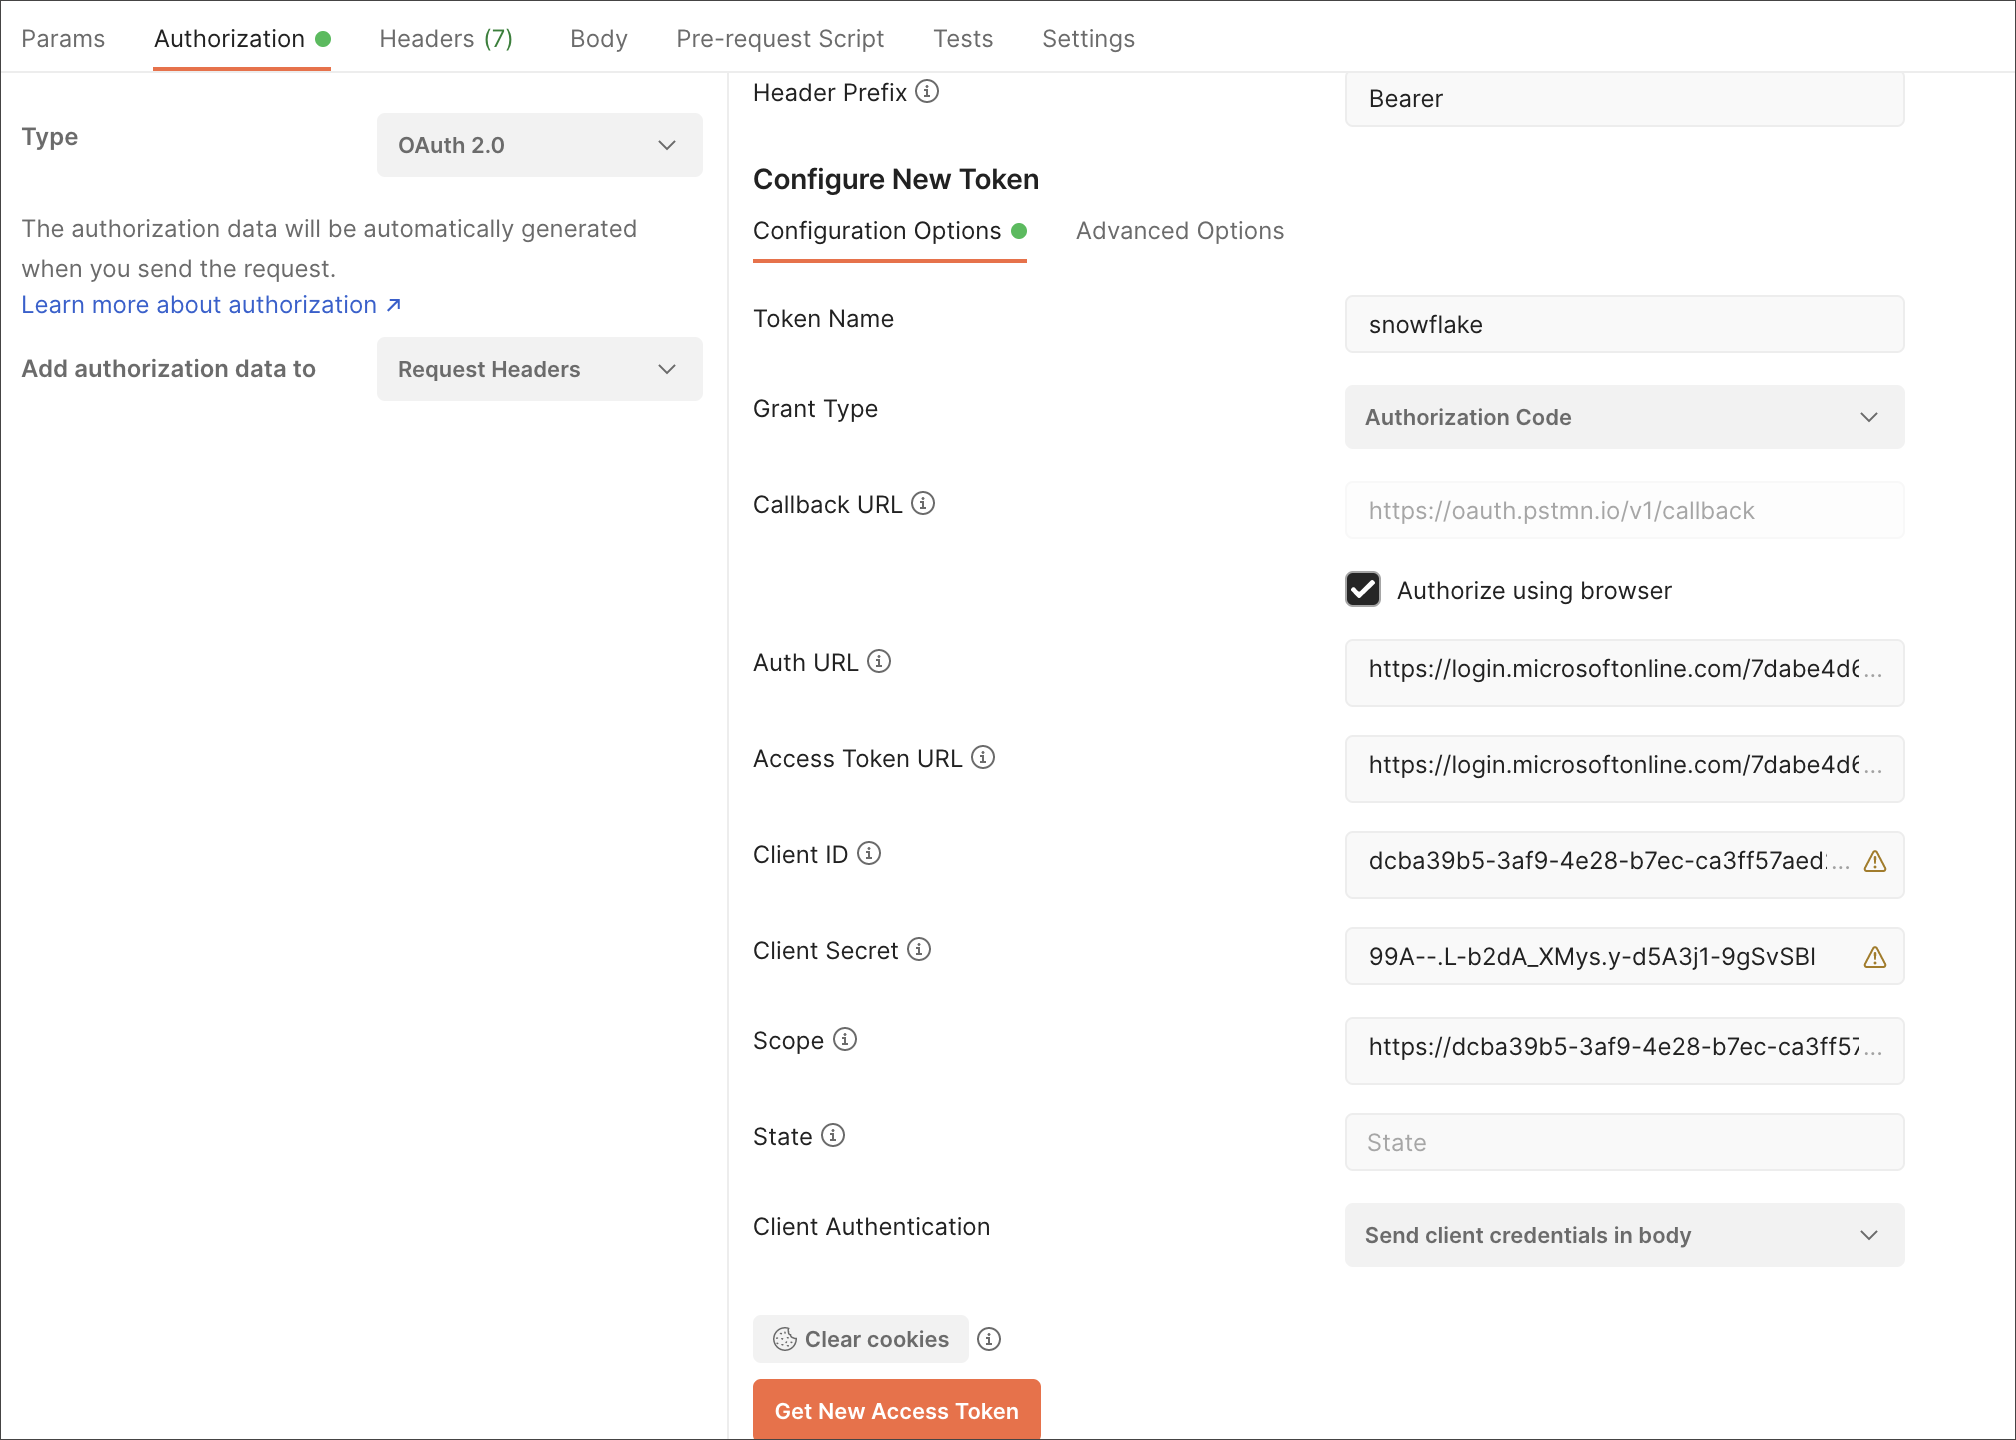
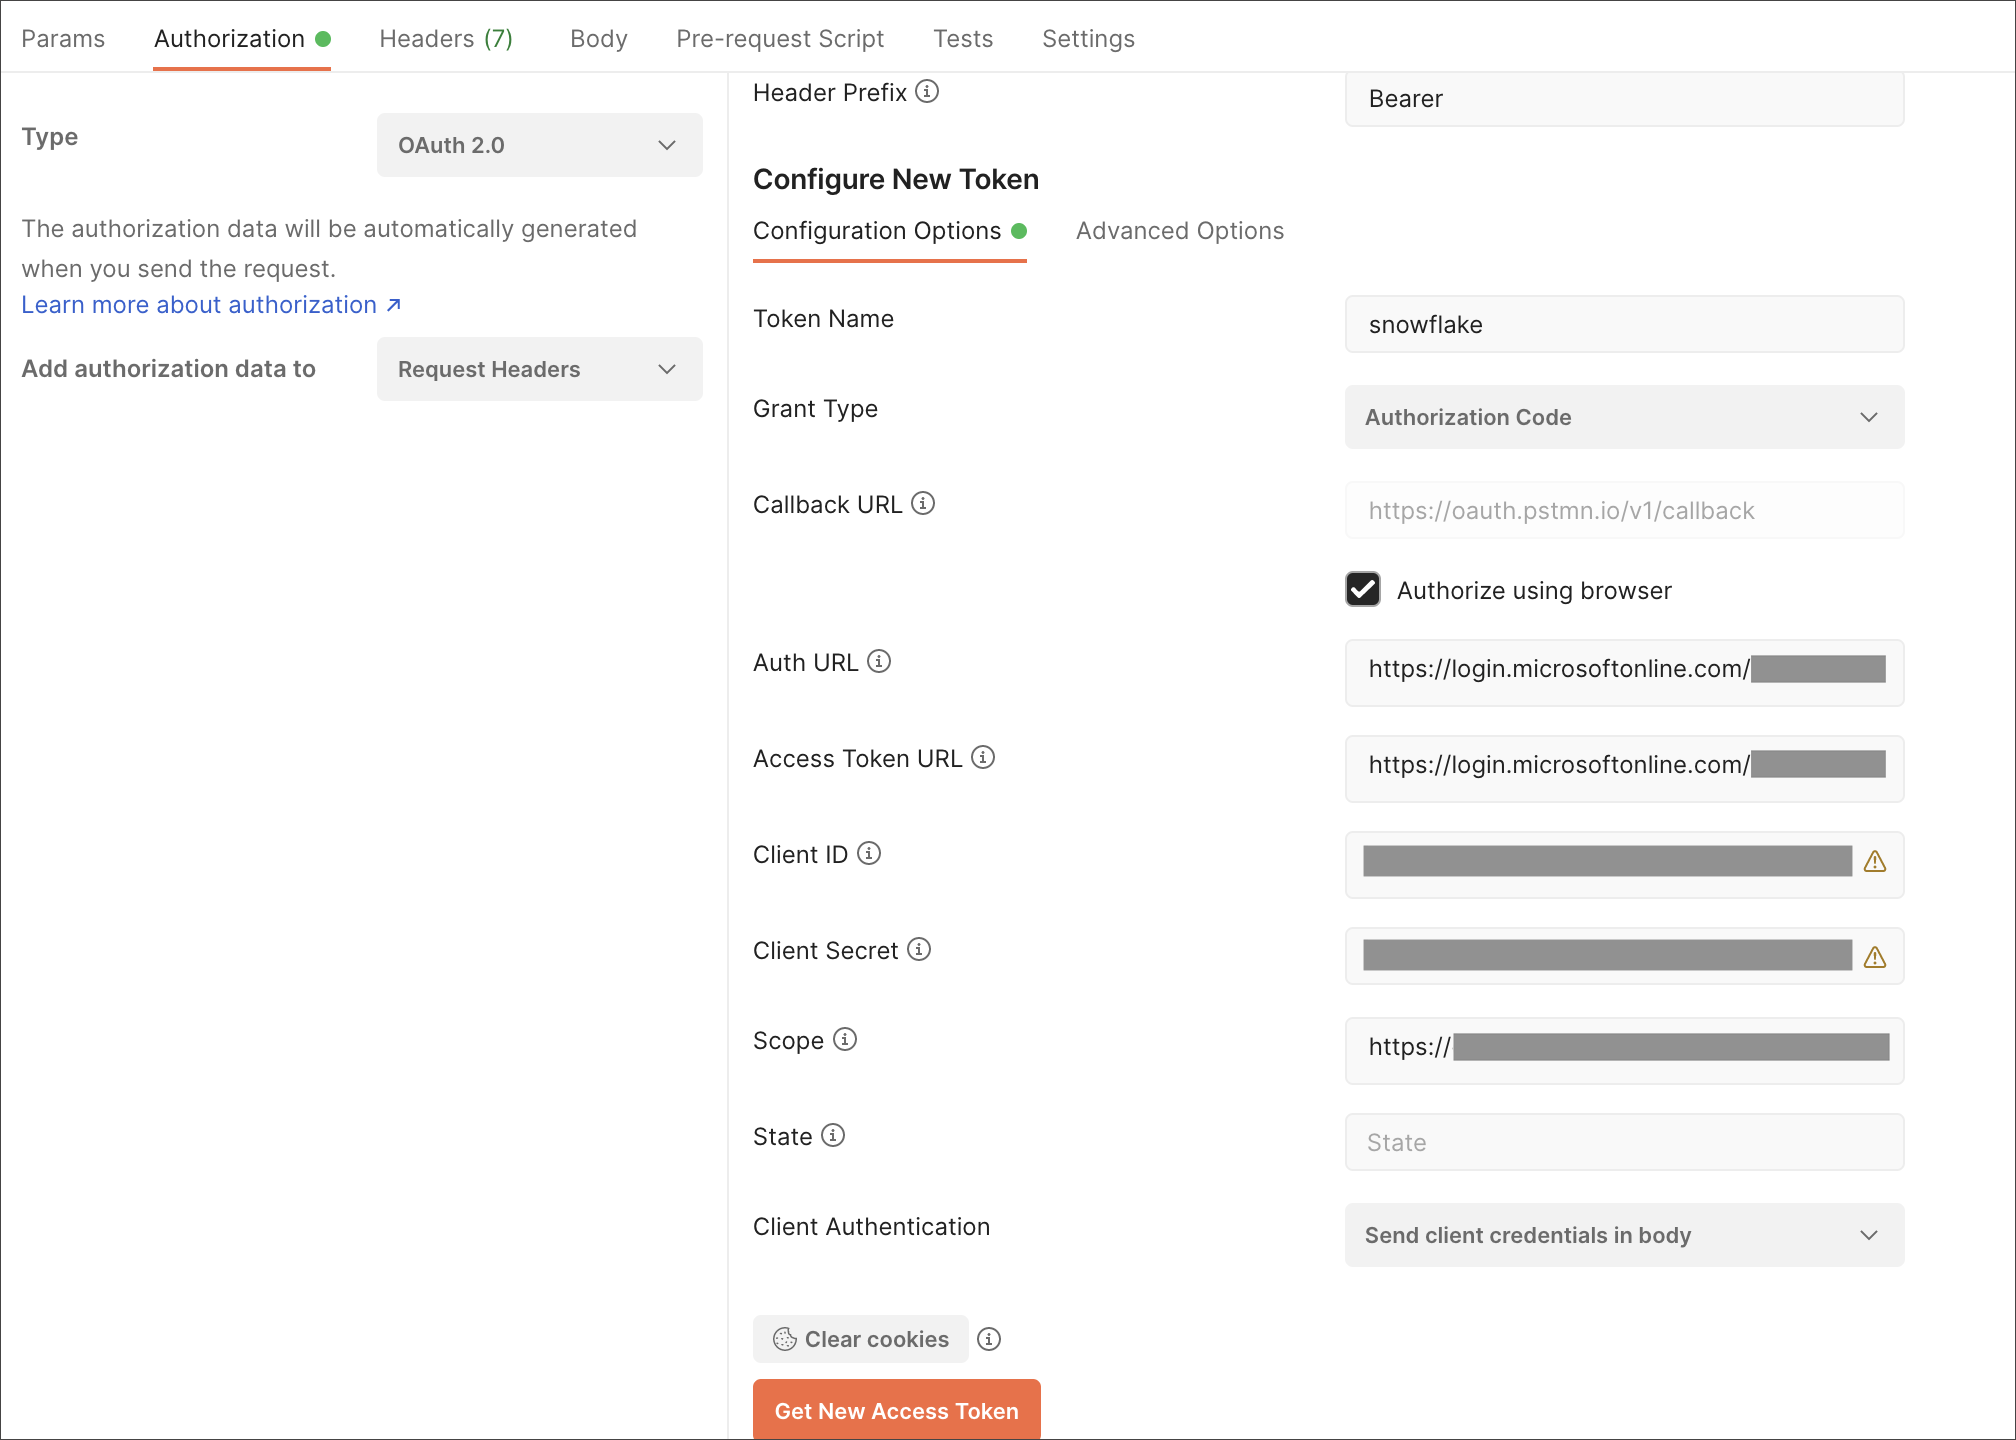
several updates to azure ad oauth article

Changed region(s): [[0.6562, 0.4375, 0.9375, 0.6875], [0.7188, 0.7188, 0.9375, 0.75]]

diff --git a/_admin/ts-cloud/ts-cloud-embrace-snowflake-azure-ad-oauth.md b/_admin/ts-cloud/ts-cloud-embrace-snowflake-azure-ad-oauth.md
@@ -40,7 +40,7 @@ To create a Snowflake OAuth resource, do the following:
 8. Next to Application ID URI, click **Set** and change its value from **api://\<alphanumeric value>** to **https://\<alphanumeric value>** and click **Save**.
 
    <!-- ![]({{ site.baseurl }}/images/snow-app-uri.png) -->
-   ![]({{ site.baseurl }}/images/snow-app-uri-oauth-client.png)
+   ![]({{ site.baseurl }}/images/snow-app-uri-oauth-client2.png)
 
     {% include note.html content="If the Application ID URI is not used, you must create a security integration with audiences using the Snowflake Account URL (i.e. `<account_identifier>.snowflakecomputing.com)`." %}
 
@@ -68,7 +68,7 @@ To create a Snowflake OAuth client app, do the following:
 
 2. Click **App registrations**, and then click **New registration**.
 
-3. For Name, enter a name for the client (example: `Snowflake OAuth Client`).
+3. For Name, enter a name for the client (example: `Snowflake OAuth User`).
 
 4. For Supported account types, make sure it is set to **Single tenant**.
 
@@ -78,30 +78,19 @@ To create a Snowflake OAuth client app, do the following:
 
 7. From the Application (client) ID field, copy the ID. This ID is referred to as the `<OAUTH_CLIENT_ID>` in the steps that follow.
 
-   ![]({{ site.baseurl }}/images/sf_oauth_client.png)
-
-8. Click **Authentication**.
-
-9. Under Web, enter your Redirect URI.
-
-   The URI must be in the following format:
-   `<https://<public> url of your ThoughtSpot Instance>/callosum/v1/connection/generateTokens`
-
-   ![]({{ site.baseurl }}/images/redirect_uri.png)
-
-9. Click **Register**.   
+   ![]({{ site.baseurl }}/images/sf_oauth_user.png)   
 
 8. Click **Certificates & secrets** and then **New client secret**.
 
-   ![]({{ site.baseurl }}/images/snow_certs_secr.png)
+   ![]({{ site.baseurl }}/images/snow_certs_secr2.png)
 
 9. Copy the secret you just created. This is referred to as `<OAUTH_CLIENT_SECRET>` in the steps that follow.
 
-   ![]({{ site.baseurl }}/images/snow_secr.png)
+   ![]({{ site.baseurl }}/images/snow_secr2.png)
 
 10. Click **API permissions**, then click **Add a permission**.
 
-    ![]({{ site.baseurl }}/images/snow_api_perm.png)
+    ![]({{ site.baseurl }}/images/snow_api_perm2.png)
 
 11. Click **My APIs**.
 
@@ -119,8 +108,6 @@ To create a Snowflake OAuth client app, do the following:
 
     ![]({{ site.baseurl }}/images/snow_grant_admin.png)
 
-16. Under Configured permissions, make sure **Grant admin consent for Default Directory** is checked.
-
 ### Part 3: Collecting Azure AD information for Snowflake
 
 To collect Azure AD information for Snowflake, do the following:
@@ -133,24 +120,24 @@ To collect Azure AD information for Snowflake, do the following:
 
     b. On the right-hand side, copy the **OAuth 2.0 token endpoint (v2)** and note the URLs for **OpenID Connect metadata** and **Federation Connect metadata**.
 
-	 1. The **OAuth 2.0 token endpoint (v2)** is referred to as the `<AZURE_AD_OAUTH_TOKEN_ENDPOINT>` in the following configuration steps. The endpoint should be similar to https<nolink>://login.microsoftonline.com/7dabe4d6-364c-436b-a77e-f252d7a0fb31/oauth2/v2.0/token/ (Where **7dabe4d6-364c-436b-a77e-f252d7a0fb31** is the tenant ID).
+	 1. The **OAuth 2.0 token endpoint (v2)** is referred to as the `<AZURE_AD_OAUTH_TOKEN_ENDPOINT>` in the following configuration steps. The endpoint should be similar to `https://login.microsoftonline.com/<tenant_id>/oauth2/v2.0/token/`.
 
    2. For the **OpenID Connect metadata**, open in a new browser window.
 
 	     a. Locate the "jwks_uri" parameter and copy its value.
 
-	     b. This parameter value will be known as the `<AZURE_AD_JWS_KEY_ENDPOINT>` in the following configuration steps. The endpoint should be similar to https<nolink>://login.microsoftonline.com/7dabe4d6-364c-436b-a77e-f252d7a0fb31/discovery/v2.0/keys.
+	     b. This parameter value will be known as the `<AZURE_AD_JWS_KEY_ENDPOINT>` in the following configuration steps. The endpoint should be similar to `https://login.microsoftonline.com/<tenant_id>/discovery/v2.0/keys`.
 
-  3. For the **Federation metadata document**, open the URL in a new browser window.
+3. For the **Federation metadata document**, open the URL in a new browser window.
 
-	     a. Locate the `"entityID"` parameter in the `XML Root Element` and copy its value.
+	  a. Locate the `"entityID"` parameter in the `XML Root Element` and copy its value.
 
-	     b. This parameter value will be known as the `<AZURE_AD_ISSUER>` in the following configuration steps. The entityID value should be similar to https<nolink>://sts.windows.net/7dabe4d6-364c-436b-a77e-f252d7a0fb31/.
+	  b. This parameter value will be known as the `<AZURE_AD_ISSUER>` in the following configuration steps. The entityID value should be similar to `https://sts.windows.net/<tenant_id>/`.
 
-  4. The **OAuth 2.0 authorization endpoint (v2)** should be similar to  https<nolink>://login.microsoftonline.com/7dabe4d6-364c-436b-a77e-f252d7a0fb31/oauth2/v2.0/authorize.
+4. The **OAuth 2.0 authorization endpoint (v2)** should be similar to  `https://login.microsoftonline.com/<tenant_id>/oauth2/v2.0/authorize`.
 
-     ![]({{ site.baseurl }}/images/snow_oauth_user_res_1.png)
-     ![]({{ site.baseurl }}/images/snow_oauth_user_res_2.png)
+    ![]({{ site.baseurl }}/images/snow_oauth_user_res_1.png)
+    ![]({{ site.baseurl }}/images/snow_oauth_user_res_2.png)
 
 ### Part 4: Creating an OAuth authorization server in Snowflake
 
@@ -176,7 +163,7 @@ Example:
 
 ![]({{ site.baseurl }}/images/snow-sec-int-example.png)
 
-{% include note.html content="When you create the Snowflake OAuth Resource Application in Azure AD, if you enter an `Application ID URI` that is not the Snowflake Account URL (i.e. <account_identifier>.snowflakecomputing.com), you must add the external_oauth_audience_list parameter to the command with the value `<SNOWFLAKE_APPLICATION_ID_URI>`.." %}
+{% include note.html content="When you create the Snowflake OAuth Resource Application in Azure AD, if you enter an `Application ID URI` that is not the Snowflake Account URL (i.e. `<account_identifier>.snowflakecomputing.com`), you must add the `external_oauth_audience_list` parameter to the command with the value `<SNOWFLAKE_APPLICATION_ID_URI>`." %}
 
 #### Snowflake commands
 
@@ -196,7 +183,7 @@ Example:
 
 `ALTER USER testuser SET DEFAULT_ROLE = SYSADMIN;`
 
-#### Validating your Azure configuration (optional)
+### (Optional) Validating your Azure configuration
 
 To ensure your Azure configuration is correct for use with ThoughtSpot, you can generate an access token.
 
@@ -204,13 +191,11 @@ You can use either of the following methods to generate your access token:
 - Postman
 - cURL
 
-##### Method 1: Postman
+#### Method 1: Postman
 
-###### Part 1: Getting a new access token
+To validate your configuration using Postman, do the following:
 
-To get a new access token, do the following:
-
-1. Sign in to the [Microsoft Azure Portal](https://portal.azure.com/){:target="_blank"}, and navigate to **Azure Active Directory**, if needed.
+1. Sign in to Postman.
 
 2. Go to the **Authorization** tab.
 
@@ -220,40 +205,38 @@ To get a new access token, do the following:
 
 5. For Callback URL, select **Authorize using browser**.
 
-   This should be defined in your OAuth User app(Ex: Snowflake OAuthUser). The default is “https<nolink>://oauth.pstmn.io/v1/callback”.
+   This should be defined in your OAuth User app(Ex: Snowflake OAuthUser). The default is `https://oauth.pstmn.io/v1/callback`.
 
 6. For Auth URL, enter the OAuth 2.0 authorization endpoint (v2) value from “Endpoints” in the app.   
 
-    Example: https<nolink>://login.microsoftonline.com/7dabe4d6-364c-436b-a77e-f252d7a0fb31/oauth2/v2.0/authorize
+    Example: `https://login.microsoftonline.com/<tenant_id>/oauth2/v2.0/authorize`
 
 7. For Access Token URL, enter the access token URL.
 
-    Example: https<nolink>://login.microsoftonline.com/7dabe4d6-364c-436b-a77e-f252d7a0fb31/oauth2/v2.0/token/
+    Example: `https://login.microsoftonline.com/<tenant_id>/oauth2/v2.0/token/`
 
 8. For Scope, you must provide “offline_access” as the scope, along with the actual scope. The refresh token is only provided if the offline_access scope was requested.
 
     ![]({{ site.baseurl }}/images/postman_get_token.png)  
 
-    Example: https<nolink>://dcba39b5-3af9-4e28-b7ec-ca3ff57aed23/session:role-any offline_access
+    Example: `https://<application_id>/session:role-any offline_access`
 
     {% include important.html content="When you create the scope in the Azure AD application setup, it must be set as “any” so that a user can later switch to any of his allowed roles when making a JDBC connection using the obtained token." %}    
 
 9. Click **Get New Access Token**.
 
-###### Part 2: Authenticating Azure AD user
+10. Sign in to your Microsoft Azure account.
 
-- Sign in to your Microsoft Azure account.
+    ![]({{ site.baseurl }}/images/ms_sign_in.png)
 
-  ![]({{ site.baseurl }}/images/ms_sign_in.png)
+11. On the Token Details page, click **Use Token**.
 
-###### Part 3: Collecting and refreshing access tokens
+    ![]({{ site.baseurl }}/images/token_det_1.png)
+    ![]({{ site.baseurl }}/images/token_det_2.png)
 
-- On the Token Details page, click **Use Token**.
+#### Method 2: cURL
 
-  ![]({{ site.baseurl }}/images/token_det_1.png)
-  ![]({{ site.baseurl }}/images/token_det_2.png)
-
-##### Method 2: cURL
+To validate your configuration using cURL, do the following:
 
 1. Execute below command to get access token with password grant_type:
 
@@ -270,13 +253,14 @@ To get a new access token, do the following:
   Example:
     ```
     curl -X POST -H "Content-Type: application/x-www-form-urlencoded;charset=UTF-8" \
-    --data-urlencode "client_id=90874b90-2537-465d-98dd-fcf572399e36" \
-    --data-urlencode "client_secret=99A--.L-b2dA_XMys.y-d5A3j1-9gSvSBl" \
-    --data-urlencode "username=testuser@diyottacloudoutlook.onmicrosoft.com" \
-    --data-urlencode "password=P2wd_1234" \
+    --data-urlencode "client_id=<client_id>" \
+    --data-urlencode "client_secret=<client_secret>" \
+    --data-urlencode "username=testuser@thoughtspot.com" \
+    --data-urlencode "password=*****" \
     --data-urlencode "grant_type=password" \
-    --data-urlencode "scope=https://dcba39b5-3af9-4e28-b7ec-ca3ff57aed23/session:role-any offline_access" \
-    'https://login.microsoftonline.com/7dabe4d6-364c-436b-a77e-f252d7a0fb31/oauth2/v2.0/token
+    --data-urlencode "scope=https://<application_id>/session:role-any offline_access"\
+    `https://login.microsoftonline.com/ <tenant_id>/oauth2/v2.0/token'
+
     ```
     ![]({{ site.baseurl }}/images/curl_1.png)
 
@@ -284,12 +268,12 @@ To get a new access token, do the following:
 
     ```
     curl -X POST -H "Content-Type: application/x-www-form-urlencoded;charset=UTF-8" \
-      --data-urlencode "client_id=90874b90-2537-465d-98dd-fcf572399e36" \
-      --data-urlencode "client_secret=99A--.L-b2dA_XMys.y-d5A3j1-9gSvSBl" \
+      --data-urlencode "client_id=<client_id>" \
+      --data-urlencode "client_secret=<client_secret>" \
         --data-urlencode "grant_type=refresh_token" \
         --data-urlencode "refresh_token=<Replace_Refresh_Token>" \
-        --data-urlencode "scope=https://dcba39b5-3af9-4e28-b7ec-ca3ff57aed23/session:role-any offline_access" \
-         'https://login.microsoftonline.com/7dabe4d6-364c-436b-a77e-f252d7a0fb31/oauth2/v2.0/token'
+        --data-urlencode "scope=https://<application_id>/session:role-any offline_access" \
+      'https://login.microsoftonline.com/<tenant_id>/oauth2/v2.0/token'
     ```
     ![]({{ site.baseurl }}/images/curl_2.png)
 
@@ -298,5 +282,5 @@ To get a new access token, do the following:
 - [Configure Microsoft Azure AD for External OAuth](https://docs.snowflake.com/en/user-guide/oauth-azure.html#configure-microsoft-azure-ad-for-external-oauth){:target="_blank"}
 - [How to: create external OAuth token using Azure AD for the OAuth client itself](https://community.snowflake.com/s/article/Create-External-OAuth-Token-Using-Azure-AD-For-The-OAuth-Client-Itself){:target="_blank"}
 - [How to: create external OAuth token using Azure AD on behalf of the user](https://community.snowflake.com/s/article/External-oAuth-Token-Generation-using-Azure-AD){:target="_blank"}
-- [How to: create security integration & user to use with OAuth client token Azure AD](https://community.snowflake.com/s/article/Create-Security-Integration-User-To-Use-With-OAuth-Client-Token-With-Azure-AD){:target="_blank"}
+- [How to: create security integration & user to use with OAuth client token with Azure AD](https://community.snowflake.com/s/article/Create-Security-Integration-User-To-Use-With-OAuth-Client-Token-With-Azure-AD){:target="_blank"}
 - [JSON web token debugger](https://jwt.io/){:target="_blank"}
